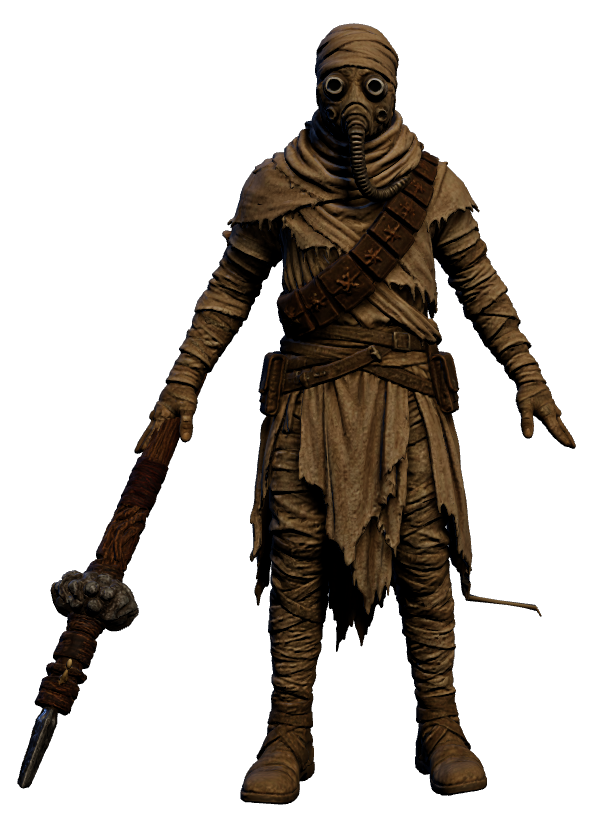
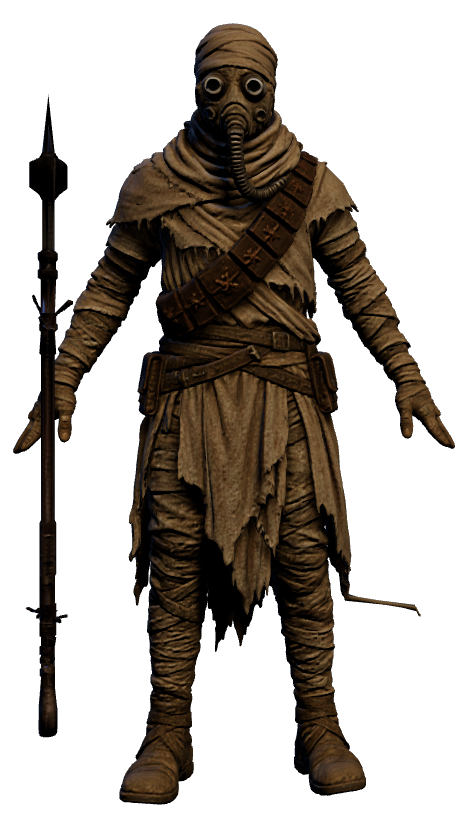
Refine Darksaber blade and update Din and Tusken grips

diff --git a/src/characters/darksaberBlade.ts b/src/characters/darksaberBlade.ts
@@ -1,0 +1,90 @@
+import * as THREE from 'three';
+import { markShared } from '../core/dispose';
+
+/** A pointed blade with a straight spine and one edge curving into its tip. */
+export function makeDarksaberBlade(length: number): THREE.Group {
+  const blade = new THREE.Group();
+  const spine = -0.047;
+  const edge = (t: number): number => t < 0.7 ? 0.052
+    : 0.052 - 0.099 * Math.pow((t - 0.7) / 0.3, 2);
+  const outline = [new THREE.Vector2(spine, 0), new THREE.Vector2(edge(0), 0)];
+  for (let i = 1; i <= 24; i++) outline.push(new THREE.Vector2(edge(i / 24), length * i / 24));
+  const shape = new THREE.Shape(outline);
+  shape.closePath();
+  const geometry = new THREE.ExtrudeGeometry(shape, { depth: 0.018, bevelEnabled: false, curveSegments: 1 });
+  geometry.translate(0, 0, -0.009);
+  // Shape/extrude UVs use world-space XY. Fit the texture across the blade's
+  // face so its fine grain and the white marks land on the curved edge.
+  const uv = geometry.getAttribute('uv');
+  for (let i = 0; i < uv.count; i++) uv.setXY(i, (uv.getX(i) - spine) / 0.099, uv.getY(i) / length);
+  uv.needsUpdate = true;
+  const face = new THREE.MeshBasicMaterial({ map: bladeTexture(), side: THREE.DoubleSide });
+  const side = new THREE.MeshBasicMaterial({ color: 0x090b0f });
+  const core = new THREE.Mesh(geometry, [face, side]);
+  core.castShadow = false;
+  blade.add(core);
+
+  // Two fine white rims give the flat black face its silhouette from either
+  // side. The broader, faint rim is the reference's soft energy fringe.
+  const path = new THREE.CatmullRomCurve3(outline.map((p) => new THREE.Vector3(p.x, p.y, 0)), true, 'centripetal');
+  const halos: THREE.MeshBasicMaterial[] = [];
+  for (const z of [-0.01, 0.01]) {
+    for (const [radius, opacity] of [[0.011, 0.2], [0.0034, 0.96]] as const) {
+      const material = new THREE.MeshBasicMaterial({ color: 0xf2f6ff, transparent: true, opacity,
+        blending: THREE.AdditiveBlending, depthWrite: false });
+      if (radius > 0.01) halos.push(material);
+      const rim = new THREE.Mesh(new THREE.TubeGeometry(path, 64, radius, 5, true), material);
+      rim.position.z = z;
+      rim.castShadow = false;
+      blade.add(rim);
+    }
+  }
+  blade.userData.haloMaterials = halos;
+  return blade;
+}
+
+let texture: THREE.CanvasTexture | null = null;
+function bladeTexture(): THREE.CanvasTexture {
+  if (texture) return texture;
+  const canvas = document.createElement('canvas');
+  canvas.width = 128;
+  canvas.height = 1024;
+  const ctx = canvas.getContext('2d')!;
+  ctx.fillStyle = '#090b10';
+  ctx.fillRect(0, 0, 128, 1024);
+  let seed = 0x5abec7;
+  const rand = (): number => {
+    seed = (Math.imul(seed, 1664525) + 1013904223) >>> 0;
+    return seed / 0x100000000;
+  };
+  // Uneven graphite grain on the black field, kept subtle so it still reads
+  // black at gameplay distance. The fine diagonal scratches imply facets.
+  for (let i = 0; i < 950; i++) {
+    const x = rand() * 128, y = rand() * 1024;
+    ctx.strokeStyle = `rgba(135,145,160,${(0.012 + rand() * 0.065).toFixed(3)})`;
+    ctx.lineWidth = 0.3 + rand() * 0.9;
+    ctx.beginPath();
+    ctx.moveTo(x, y);
+    ctx.lineTo(x + 1 + rand() * 13, y - 2 - rand() * 19);
+    ctx.stroke();
+  }
+  // Short, broken white licks rise from the curved edge into the black face.
+  // Keep the straight spine clear, as in the supplied reference.
+  for (let i = 0; i < 110; i++) {
+    const y = 32 + rand() * 965;
+    const depth = 4 + Math.pow(rand(), 2) * 27;
+    const x = 123 - rand() * 7;
+    ctx.strokeStyle = `rgba(235,243,255,${(0.45 + rand() * 0.5).toFixed(3)})`;
+    ctx.lineWidth = 0.5 + rand() * 1.8;
+    ctx.beginPath();
+    ctx.moveTo(x, y);
+    ctx.lineTo(x - depth * 0.33, y - 2 - rand() * 5);
+    ctx.lineTo(x - depth * 0.62, y + rand() * 6);
+    ctx.lineTo(x - depth, y - rand() * 7);
+    ctx.stroke();
+  }
+  texture = markShared(new THREE.CanvasTexture(canvas));
+  texture.colorSpace = THREE.SRGBColorSpace;
+  texture.anisotropy = 4;
+  return texture;
+}

diff --git a/src/characters/enemies.ts b/src/characters/enemies.ts
@@ -4,6 +4,8 @@ import { reachArm, seatSurface } from '../anim/seating';
 import { clamp, damp } from '../core/math';
 import { attachAuthored, loadCreature, loadProp, type CreatureId } from './authored';
 import { addBox, addCyl, addSphere, buildBiped, makeGaffi, makePistol, mat, type CharacterInstance } from './builder';
+import { applyTuskenWeaponGrip } from './tuskenWeaponGrips';
+import { makeDarksaberBlade } from './darksaberBlade';
 import { attachEggRack, BROOD_EGG_RACK, eggTint, type SculptRack } from './eggrack';
 
 // the clutch's size is the sculpt's, and it is the rack module that counts it
@@ -144,6 +146,16 @@ export function buildTusken(authored = true): CharacterInstance {
   gaffi.rotation.x = Math.PI;
   b.weaponR.add(gaffi);
   authoredEnemy(inst, rig, 'tusken', authored);
+  const previous = inst.cosmetic;
+  let gripClip: string | null = '';
+  inst.cosmetic = (dt, time) => {
+    previous?.(dt, time);
+    const clip = inst.animator?.playing('upper') ?? null;
+    if (gaffi.parent?.name === 'weaponMount' && clip !== gripClip) {
+      applyTuskenWeaponGrip(gaffi, clip);
+      gripClip = clip;
+    }
+  };
   return inst;
 }
 
@@ -193,7 +205,9 @@ export function buildPirate(melee: boolean, authored = true): CharacterInstance 
   } else {
     inst.muzzle = rifle(b.weaponR);
   }
-  authoredEnemy(inst, rig, melee ? 'pirate_melee' : 'pirate', authored);
+  // The blaster sculpt has a face on both sides. Use the healthy pirate
+  // brawler body as a temporary skin; the gun stays a separate hand prop.
+  authoredEnemy(inst, rig, 'pirate_melee', authored);
   return inst;
 }
 
@@ -387,24 +401,12 @@ export function buildImperialOfficer(authored = true): CharacterInstance {
   addBox(b.hips, coat, 0.4, 0.5, 0.3, 0, -0.18, 0);                         // skirt of the coat
   addBox(b.chest, mat(0x9aa2b0, { rough: 0.4, metal: 0.6 }), 0.07, 0.03, 0.02, 0.13, 0.2, 0.15);  // rank plaque
 
-  // darksaber: black blade, white edge glow
+  // Same pointed, textured darksaber blade as Din's weapon.
   const saber = new THREE.Group();
   addCyl(saber, mat(0x3a3d44, { rough: 0.4, metal: 0.7 }), 0.022, 0.026, 0.2, 0, -0.08, 0);
-  // The blade is opaque and depth-writing, and the glow sits a hair behind it,
-  // so the core stays black and only the rim of the halo shows past its edges —
-  // which is the whole reason a darksaber reads as one.
-  const blade = new THREE.Mesh(
-    new THREE.BoxGeometry(0.085, 0.86, 0.03),
-    new THREE.MeshBasicMaterial({ color: 0x08080c }),
-  );
-  blade.position.y = 0.47;
+  const blade = makeDarksaberBlade(0.86);
+  blade.position.y = 0.04;
   saber.add(blade);
-  const fringe = new THREE.Mesh(
-    new THREE.BoxGeometry(0.125, 0.9, 0.008),
-    new THREE.MeshBasicMaterial({ color: 0xdfe6ff, transparent: true, opacity: 0.5, blending: THREE.AdditiveBlending, depthWrite: false }),
-  );
-  fringe.position.set(0, 0.47, -0.014);
-  saber.add(fringe);
   saber.rotation.x = Math.PI / 2;
   b.weaponR.add(saber);
 
@@ -412,8 +414,8 @@ export function buildImperialOfficer(authored = true): CharacterInstance {
   const prev = inst.cosmetic;
   inst.cosmetic = (dt, time) => {
     // the blade breathes, so it reads as energy rather than a painted plank
-    const m = fringe.material as THREE.MeshBasicMaterial;
-    m.opacity = 0.42 + Math.sin(time * 9) * 0.08;
+    for (const m of blade.userData.haloMaterials as THREE.MeshBasicMaterial[])
+      m.opacity = 0.18 + Math.sin(time * 9) * 0.035;
     prev?.(dt, time);
   };
   return inst;

diff --git a/src/characters/mandalorians.ts b/src/characters/mandalorians.ts
@@ -504,10 +504,8 @@ export function buildMandalorian(id: MandoId, opts: { authored?: boolean } = {})
       main = makeGaffi(mat(0x6b4c2c, { rough: 0.95 }), silver,
         id === 'din' ? 'beskar_spear' : id === 'armorer' ? 'poleaxe' : 'gaffi');
       main.name = id === 'din' ? 'beskarSpear' : id === 'armorer' ? 'poleaxe' : 'gaffi';
-      // The shaft is local Y on both the fallback and the mounted sculpt.
-      // Din's dedicated beskar sculpt is already narrow; preserve its full
-      // shaft width and reach when the authored model arrives. Turn the
-      // weapon's +Y head toward the extended arm's forward axis.
+      // The sculpt's pointed end is model -Z. Its prop mount maps that to
+      // grip -Y; the carry half-turn lifts the point above Din's hand.
       main.rotation.x = Math.PI;
     }
     if (kind === 'sabers') {
@@ -644,6 +642,11 @@ export function buildMandalorian(id: MandoId, opts: { authored?: boolean } = {})
         const saber = blades.get('sabers');
         if (saber) applySharedWeaponGrip(id, saber.main);
       }
+      if (model.weaponMount && id === 'din') {
+        // Flourish workbench export: hand-local, so the same anchor follows
+        // every darksaber clip and keeps the broad blade facing outward.
+        blades.get('sabers')?.main.quaternion.set(0.5384779, -0.4583029, -0.4583029, 0.5384779).normalize();
+      }
       // The off-hand has to move too. Our own weaponL bone still animates, but
       // it sits where the hidden procedural arm is, so a pistol left on it
       // floats beside the authored body instead of filling its other hand.
@@ -707,6 +710,7 @@ export function buildMandalorian(id: MandoId, opts: { authored?: boolean } = {})
   // A grip editor can temporarily change the transform while the clip stays
   // fixed. Reapply only when the clip changes so the editor retains control.
   let armorerAxeClip: string | null = null;
+  let dinSpearAttack: boolean | null = null;
   let weapon: 'blaster' | 'gaffi' | 'none' = 'blaster';
   let shieldUp = false;
   // per-hand "still in the hand" mask, so a thrown saber vanishes from its
@@ -760,6 +764,16 @@ export function buildMandalorian(id: MandoId, opts: { authored?: boolean } = {})
       for (const m of heroMats) m.emissiveIntensity = intensity;
     },
     cosmetic: (dt, time) => {
+      if (id === 'din') {
+        const clip = inst.animator?.playing('upper') ?? '';
+        const attacking = /^(melee[123]|spear|staff)/.test(clip);
+        if (attacking !== dinSpearAttack) {
+          // Attack clips extend grip -Y toward the target only without the
+          // carry half-turn; otherwise the pointed end trails the strike.
+          blades.get('gaffi')!.main.rotation.x = attacking ? 0 : Math.PI;
+          dinSpearAttack = attacking;
+        }
+      }
       if (bosskRifle && swap.model) {
         const aiming = inst.animator?.playing('upper') === 'aimUpper';
         if (aiming !== bosskRifleAiming) {

diff --git a/src/characters/builder.ts b/src/characters/builder.ts
@@ -4,6 +4,7 @@ import { buildClips } from '../anim/clips';
 import { Animator } from '../anim/animator';
 import { loadProp } from './authored';
 import { markShared } from '../core/dispose';
+import { makeDarksaberBlade } from './darksaberBlade';
 
 /**
  * Procedural character construction: meshes are parented to rig bones so any
@@ -363,17 +364,7 @@ export function makeSaber(
   g.userData.bladeLen = BLADE_LEN;
   g.userData.trailColor = darksaber ? [0.9, 0.95, 1.0] : tonfa || white ? [0.72, 0.87, 1.0] : [1.0, 0.22, 0.16];
   if (darksaber) {
-    // Opaque flat black blade masks the middle of a wider white fringe.
-    // Keeping the fringe behind the core preserves the black silhouette.
-    const fringe = new THREE.Mesh(new THREE.BoxGeometry(0.14, BLADE_LEN, 0.008),
-      new THREE.MeshBasicMaterial({ color: 0xe7eeff, transparent: true, opacity: 0.72,
-        blending: THREE.AdditiveBlending, depthWrite: false }));
-    fringe.position.y = BLADE_LEN / 2;
-    blade.add(fringe);
-    const core = new THREE.Mesh(new THREE.BoxGeometry(0.09, BLADE_LEN - 0.03, 0.028),
-      new THREE.MeshBasicMaterial({ color: 0x08080c }));
-    core.position.y = BLADE_LEN / 2 - 0.015;
-    blade.add(core);
+    blade.add(makeDarksaberBlade(BLADE_LEN));
   } else for (const [r, color, opacity] of [
     [0.011, tonfa || white ? 0xffffff : 0xfff0f0, 0.95],
     [0.026, tonfa || white ? 0xe8f5ff : 0xff2a1e, 0.42],

diff --git a/src/characters/tuskenWeaponGrips.ts b/src/characters/tuskenWeaponGrips.ts
@@ -1,0 +1,19 @@
+import * as THREE from 'three';
+import workbenchExport from './data/tuskenWeaponGrips.json';
+
+const CLIP: Record<string, string> = {
+  idle: 'idleUpper',
+  run: 'runUpper',
+  enemySwing: 'enemySwing',
+  'enemySwing:enemyDrive': 'enemyDriveUpper',
+};
+const grips = new Map(workbenchExport.entries.map((entry) => [CLIP[entry.pose], entry]));
+const carry = grips.get('idleUpper')!;
+
+/** The hand-local gaffi grip for each upper clip; other states carry it. */
+export function applyTuskenWeaponGrip(gaffi: THREE.Object3D, upperClip: string | null): void {
+  const grip = grips.get((upperClip ?? '').replace(/Offhand\d+$/, '')) ?? carry;
+  gaffi.position.set(grip.editedPosition[0], grip.editedPosition[1], grip.editedPosition[2]);
+  gaffi.quaternion.set(grip.editedQuaternion[0], grip.editedQuaternion[1],
+    grip.editedQuaternion[2], grip.editedQuaternion[3]).normalize();
+}
